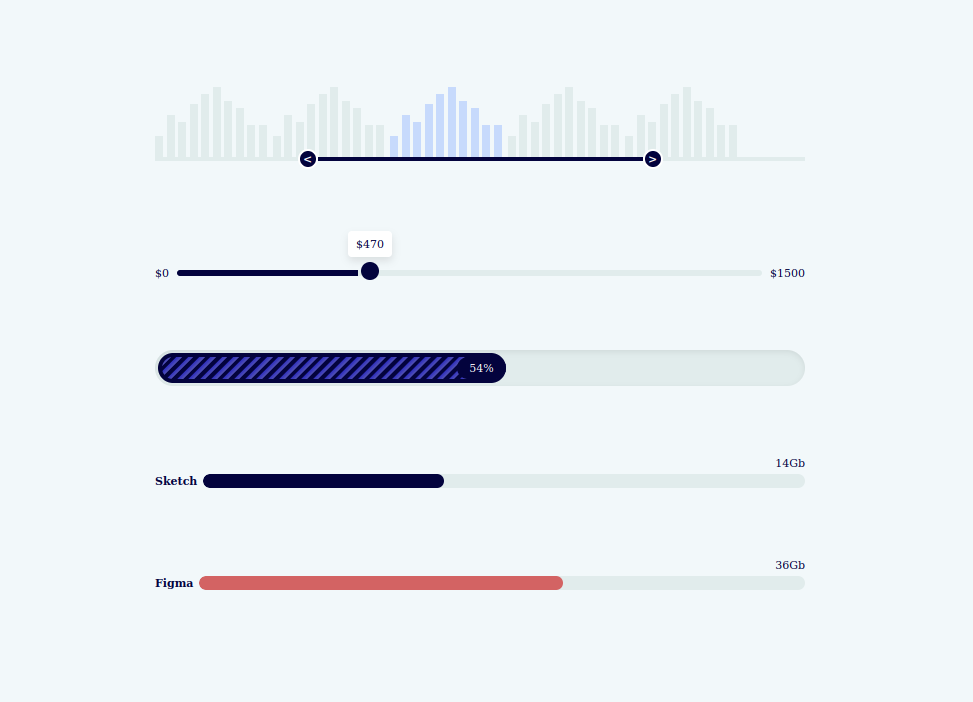
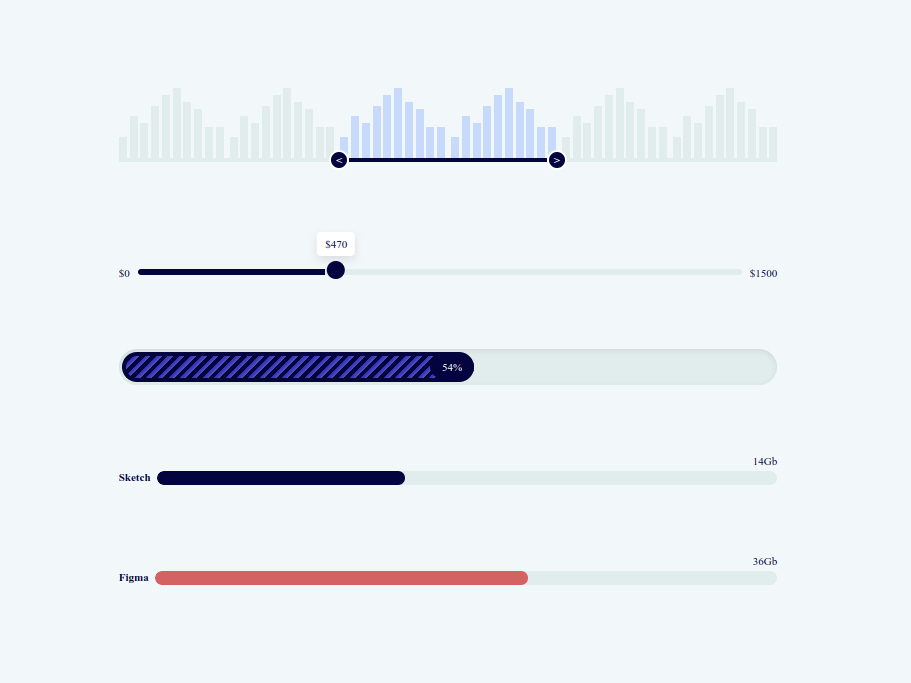
addjustments to slider1's indicator

diff --git a/index.html b/index.html
@@ -77,6 +77,18 @@
                             <div class="line"></div>
                             <div class="line"></div>
                         </div>
+                        <div class="lines">
+                            <div class="line"></div>
+                            <div class="line"></div>
+                            <div class="line"></div>
+                            <div class="line"></div>
+                            <div class="line"></div>
+                            <div class="line"></div>
+                            <div class="line"></div>
+                            <div class="line"></div>
+                            <div class="line"></div>
+                            <div class="line"></div>
+                        </div>
                     </div>
                     <div class="bar">
                         <div class="ball">&lt;</div>

diff --git a/style.css b/style.css
@@ -54,7 +54,9 @@
     height: 70px;
 }
 
-.lines:nth-child(4) > * {
+.lines:nth-child(4) > *, .lines:nth-child(5) > * {
+
+    /* position */
     background-color: rgba(136, 173, 255, .4);
 }
 
@@ -109,7 +111,7 @@
     position: relative;
 
     /* position */
-    flex: 0 0 50%;
+    flex: 0 0 30%;
     background-color: rgb(3, 3, 61);
 }
 
@@ -276,17 +278,18 @@
     height: 100%;
     border-radius: inherit;
     overflow: hidden;
-
-    /* position */
-    /* width: 50%; */
 }
 
 .filled-primary {
     background-color: rgb(3, 3, 61);
+
+    /* position */
     width: 40%;
 }
 
 .filled-warn {
     background-color: rgb(211, 99, 99);
+    
+    /* position */
     width: 60%;
 }
